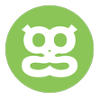
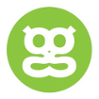
added geeklist white border and renamed section-activity to section-layout

diff --git a/app/index.html b/app/index.html
@@ -710,7 +710,6 @@
             <h1 class="section-header">Contact</h1>
             <div class="row">
               <section>
-                <p>You can consult my public profile on the following websites:</p>
               </section>
               <section>
                 <div class="media" contact="linkedin">
@@ -892,7 +891,7 @@
       <script src="scripts/directives/demo-backbone.js"></script>
       <script src="scripts/directives/demo-jquery-css.js"></script>
       <script src="scripts/directives/demo-tdd.js"></script>
-      <script src="scripts/directives/section-activity.js"></script>
+      <script src="scripts/directives/section-layout.js"></script>
       <script src="scripts/controllers/main.js"></script>
     <!-- endbuild -->
 </body>

diff --git a/app/styles/main.css b/app/styles/main.css
@@ -415,7 +415,7 @@ height: 1024px;
 }
 
 .media[contact] { background-color: transparent; }
-.media[contact] a { color: white }
+.media[contact] a { color: white; opacity: 1; }
 .media[contact]:hover {
   -moz-transition: all 0.5s linear;
   -webkit-transition: all 0.5s linear;

diff --git a/app/scripts/directives/section-layout.js b/app/scripts/directives/section-layout.js
@@ -17,4 +17,3 @@ angular.module('portfolioApp')
     },
 }
 }])
-
